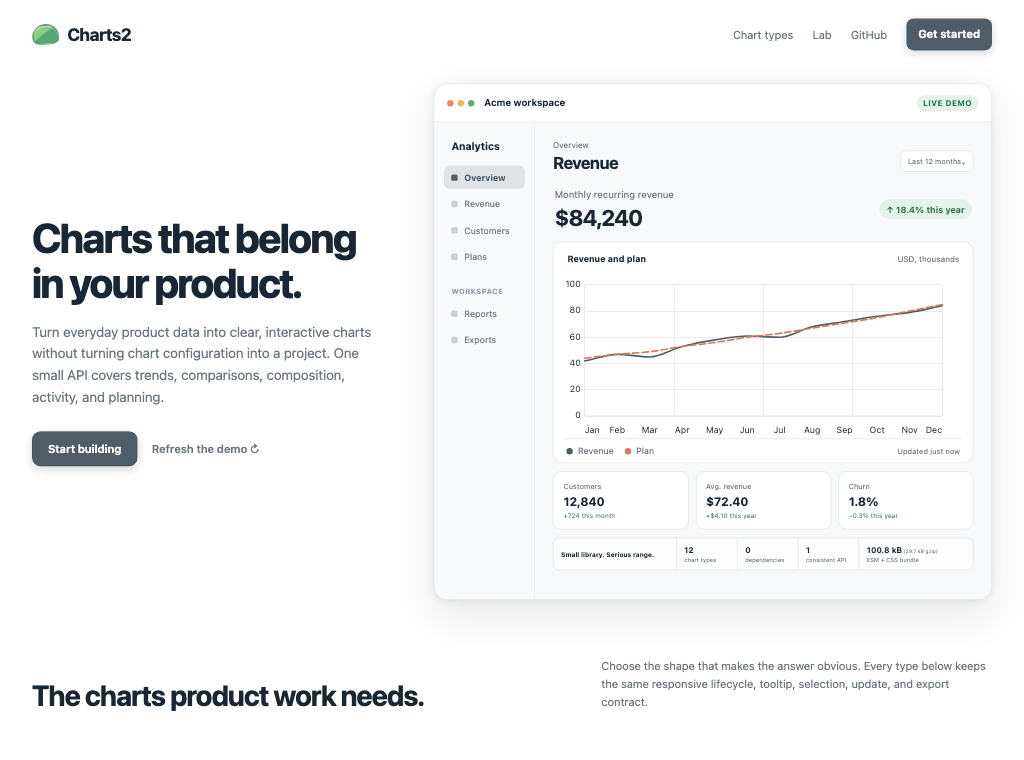
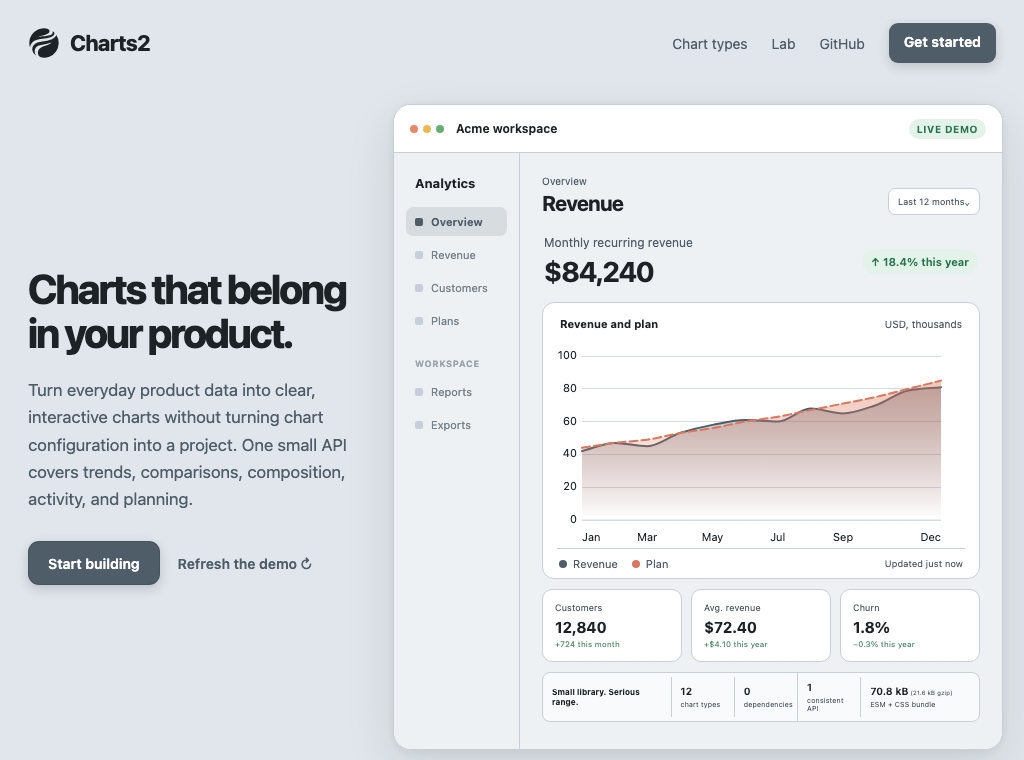
docs: refresh project branding

diff --git a/README.md b/README.md
@@ -115,9 +115,10 @@ its view is removed.
 - [Customization](./docs/customization.md) — change color, layout, labels, and presentation.
 - [Updates and interaction](./docs/updates-and-interaction.md) — connect charts to live product state.
 - [Exporting SVG](./docs/exporting.md) — serialize or download the current chart.
-- [React and Vue](./docs/frameworks.md) — mount, update, and clean up charts in components.
+- [React, Vue, and Hotwire](./docs/frameworks.md) — mount, update, and clean up charts in components.
 - [API reference](./docs/api-reference.md) — scan the complete public vocabulary.
 
 Charts2 has zero runtime dependencies, includes TypeScript declarations, and
-targets current evergreen browsers. It is maintained by
-[@tabuna](https://github.com/tabuna) and released under the [MIT License](./LICENSE).
+targets current evergreen browsers. It is part of
+[Orchid Software](https://orchid.software), maintained by
+[@tabuna](https://github.com/tabuna), and released under the [MIT License](./LICENSE).

diff --git a/docs/readme.md b/docs/readme.md
@@ -1,7 +1,7 @@
 # Charts2 documentation
 
 Charts2 helps you turn product data into responsive SVG charts with a small,
-consistent JavaScript API.
+consistent JavaScript API. It is part of [Orchid Software](https://orchid.software).
 
 If this is your first chart, begin with [Getting started](./getting-started.md).
 You will install the package and render a useful line chart in a few minutes.
@@ -15,7 +15,7 @@ You will install the package and render a useful line chart in a few minutes.
 - [Updates and interaction](./updates-and-interaction.md) — update data, react
   to selections, inspect points, and clean up.
 - [Exporting SVG](./exporting.md) — serialize or download the current chart.
-- [React and Vue](./frameworks.md) — mount, update, and destroy charts with component lifecycles.
+- [React, Vue, and Hotwire](./frameworks.md) — mount, update, and destroy charts with component lifecycles.
 - [API reference](./api-reference.md) — look up chart definitions and public methods.
 
 ## Chart types
